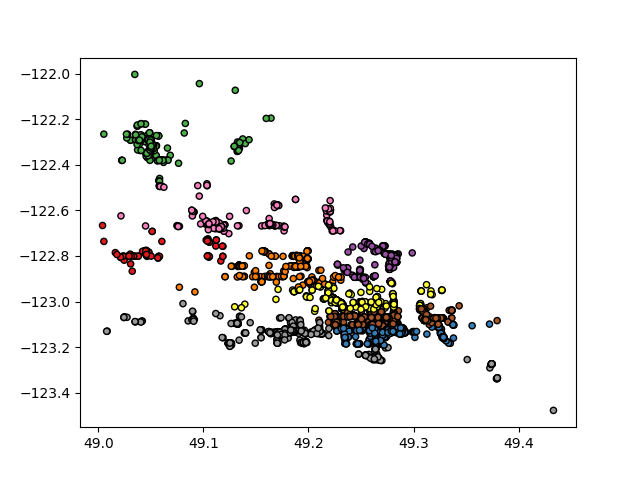
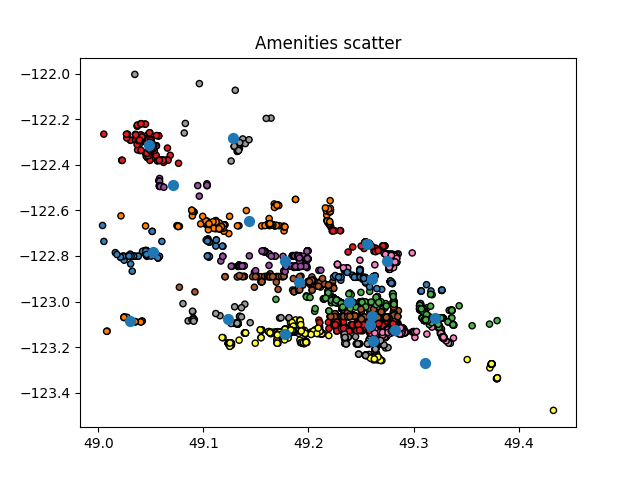
Added more stuff

diff --git a/fastfood_scatter.py b/fastfood_scatter.py
@@ -16,6 +16,17 @@ schema = types.StructType([
 	types.StructField('tags', types.MapType(types.StringType(), types.StringType()), nullable=False),
 ])
 
+def data_cluster(pipeline, data, title, path):
+	model = pipeline.fit(data)
+	predictions = model.transform(data)
+	plt.xlabel("Latitude")
+	plt.ylabel("Longitude")
+	plt.title(title)
+	plt.scatter(predictions.select('lat').collect(),
+				predictions.select('lon').collect(),
+				c=predictions.select('prediction').collect(),
+				cmap='Set1', edgecolor='k', s=20)
+	plt.savefig(path)	
 
 def main(inputs, output=None):
     # main logic starts here
@@ -29,36 +40,33 @@ def main(inputs, output=None):
 	assembler = VectorAssembler(
 		inputCols = ['lat', 'lon'],
 		outputCol='features')
-	kmeans_estimator = KMeans().setK(10)\
+	kmeans_estimator = KMeans().setK(12)\
 		.setFeaturesCol("features").setPredictionCol('prediction')
 	pipeline = Pipeline(stages=[assembler, kmeans_estimator])
-	model_fastfood = pipeline.fit(fastfood)
-	model_subways = pipeline.fit(subways)
-	model_timhortons = pipeline.fit(timhortons)
 
-	predictions_fastfood = model_fastfood.transform(fastfood)
-	# predictions_subways = model_subways.transform(subways)
-	# predictions_timhortons = model_timhortons.transform(timhortons)
+	#data_cluster(pipeline, fastfood, "Fastfood scatter", "fastfood_cluster.png")
+	#data_cluster(pipeline, subways, "Subway cluster", "subway_scatter.png")
+	#data_cluster(pipeline, timhortons, "Tim Hortons cluster", "timhorton_scatter.png")
 
-	# plt.scatter(predictions_fastfood.select('lat').collect(),
-	# 			predictions_fastfood.select('lon').collect(),
-	# 			c=predictions_fastfood.select('prediction').collect(),
-	# 			cmap='Set1', edgecolor='k', s=20)
-	# plt.savefig("fastfood_scatter.png")
 
-	# plt.scatter(predictions_subways.select('lat').collect(),
-	# 			predictions_subways.select('lon').collect(),
-	# 			c=predictions_subways.select('prediction').collect(),
-	# 			cmap='Set1', edgecolor='k', s=20)
-	# plt.savefig("subway_scatter.png")
-	
-	# plt.scatter(predictions_timhortons.select('lat').collect(),
-	# 			predictions_timhortons.select('lon').collect(),
-	# 			c=predictions_timhortons.select('prediction').collect(),
-	# 			cmap='Set1', edgecolor='k', s=20)
-	# plt.savefig("timhorton_scatter.png")
-	#timhortons.show(100)
-	#mcdonald.show(100)
+	# restaurant = data.filter(data['amenity'] == 'restaurant')
+	# plt.figure(figsize=(10, 5))	
+	# plt.subplot(1,2,1)
+	# plt.scatter(fastfood.select('lat').collect(),
+	# 			fastfood.select('lon').collect(),
+	# 			s=2)
+	# plt.xlabel("Latitude")
+	# plt.ylabel("Longitude")
+	# plt.title("Fastfood scatter")
+
+	# plt.subplot(1,2,2)
+	# plt.scatter(restaurant.select('lat').collect(),
+	# 			restaurant.select('lon').collect(),
+	# 			s=2)
+	# plt.xlabel("Latitude")
+	# plt.ylabel("Longitude")
+	# plt.title("Independent-owned restaurant scatter")
+	# plt.savefig("fastfood_vs_restaurant_scatter.png")
 
 
 if __name__ == '__main__':

diff --git a/predict_ratings.py b/predict_ratings.py
@@ -8,7 +8,7 @@ from sklearn.metrics import r2_score
 
 def is_good_restaurant(x):
 	rating = x['rating']
-	if rating >= 3.7:
+	if rating >= 3.0:
 		return True
 	return False
 amenities = ['restaurant', 'fast_food']
@@ -19,21 +19,36 @@ def main():
 	restaurants = entertainments[entertainments['amenity'].isin(amenities)]
 	restaurants = restaurants[restaurants['rating'].notna()]
 	restaurants = pd.concat([restaurants, fastfoods])
+	#restaurants = fastfoods
 	restaurants['is_good'] = restaurants.apply(is_good_restaurant, axis=1)
 	bad = restaurants[restaurants['is_good'] == False]
+	good = restaurants[restaurants['is_good'] == True]
+	restaurants['lat'] = restaurants.apply(lambda x: round(x['lat'],3), axis=1)
+	restaurants['lon'] = restaurants.apply(lambda x: round(x['lon'],3), axis=1)
 	print(bad)
 	print(restaurants)
 	location = np.array(restaurants[['lat', 'lon']])
 	is_good = np.array(restaurants['is_good'])
+	good_res = np.array(good)
+	bad_res = np.array(bad)
 	X_train, X_test, y_train, y_test = train_test_split(location, is_good)
-	model = MLPClassifier(solver='lbfgs', hidden_layer_sizes=(5,5), activation='logistic')
+	X = location
+	y = is_good
+	model = MLPClassifier(hidden_layer_sizes=(100,50))
 	model.fit(X_train, y_train)
-	predict_train = model.predict(X_train)
+	predict = model.predict(X)
 	print(model.score(X_train, y_train))
 	print(model.score(X_test, y_test))
-	plt.figure(figsize=(12,10))
-	plt.scatter(X_train[:, 0], X_train[:, 1], c=y_train)
-	plt.savefig("predict_ratings.png")
+	print(predict)
+	#fig, (ax1, ax2) = plt.subplots(1,2,figsize=(12,10), constrained_layout=True)
+	#ax1.scatter(X[:, 0], X[:, 1], c=y, cmap='Set1')
+	#ax1.set_title("Original ratings")
+	#ax2.scatter(X[:, 0], X[:, 1], c=predict, cmap='Set1')
+	#ax2.set_title("Predicted ratings")
+	#plt.savefig("restaurant_fastfood_ratings.png")
+	plt.scatter(bad_res[:, 0], bad_res[:, 1])
+	plt.show()
+
 
 if __name__ == "__main__":
 	main();

diff --git a/nearby_amenities.py b/nearby_amenities.py
@@ -20,35 +20,38 @@ schema = types.StructType([
 	types.StructField('tags', types.MapType(types.StringType(), types.StringType()), nullable=False),
 ])
 
-def main(inputs, output):
+def main():
     # main logic starts here
-	data = spark.read.json(inputs, schema=schema)
+	data = spark.read.json("entertainments-vancouver", schema=schema)
 	assembler = VectorAssembler(
 		inputCols = ['lat', 'lon'],
 		outputCol='features')
-	kmeans_estimator = KMeans().setK(10)\
+	kmeans_estimator = KMeans().setK(20)\
 		.setFeaturesCol("features").setPredictionCol('prediction')
 	pipeline = Pipeline(stages=[assembler, kmeans_estimator])
 	model = pipeline.fit(data)
 	predictions = model.transform(data)
-	plt.scatter(predictions.select('lat').collect(),
-				predictions.select('lon').collect(),
-				c=predictions.select('prediction').collect(),
-				cmap='Set1', edgecolor='k', s=20)
-	centers = model.stages[-1].clusterCenters()
+
+	centers = np.array(model.stages[-1].clusterCenters())
 	for center in centers:
 		print(center)
 
     #plt.show();return
-	plt.savefig(output)	
+    #plt.figure(figsize=(10,10))
+	plt.scatter(predictions.select('lat').collect(),
+				predictions.select('lon').collect(),
+				c=predictions.select('prediction').collect(),
+				cmap='Set1', edgecolor='k', s=20)    
+	plt.title("Amenities scatter")
+	plt.scatter(centers[:,0], centers[:,1], s=50)
+	#plt.show()
+	plt.savefig("nearby_amenities.png")	
 
 
 if __name__ == '__main__':
-	inputs = sys.argv[1]
-	output = sys.argv[2]
 	spark = SparkSession.builder.appName('example code').getOrCreate()
 	assert spark.version >= '2.4' # make sure we have Spark 2.4+
 	spark.sparkContext.setLogLevel('WARN')
     #sc = spark.sparkContext
 
-	main(inputs, output)
+	main()

diff --git a/guess_place.py b/guess_place.py
@@ -21,7 +21,7 @@ def main(inputs, locations, output=None):
 		lon_value = lon[i]
 		df['dist'] = df.apply(lambda x: dist(x.lat, x.lon, lat_value, lon_value), axis=1)
 		if places is not None:
-			places = pd.concat([places, df[df['dist'] < 0.2]])
+			places = pd.concat([places, df[df['dist'] < 0.05]])
 		else:
 			places = df[df['dist'] < 0.05]
 	places = places.drop_duplicates(subset=['lat','lon'], keep='first')

diff --git a/fastfood_vs_restaurant.py b/fastfood_vs_restaurant.py
@@ -22,7 +22,7 @@ def main():
 	x = np.array(list(zip(restaurants_rating, fastfoods_rating)))
 	plt.hist(x, histtype='bar', label=['Restaurant', 'Fastfood'])
 	plt.title("Restaurant and fastfood ratings")
-	plt.legend(['Restaurant', 'Fastfood'])
+	plt.legend(['Independent-owned restaurant', 'Fast food restaurant'])
 	plt.savefig("fastfood_vs_restaurant_historgram.png")
 
 if __name__ == '__main__':
